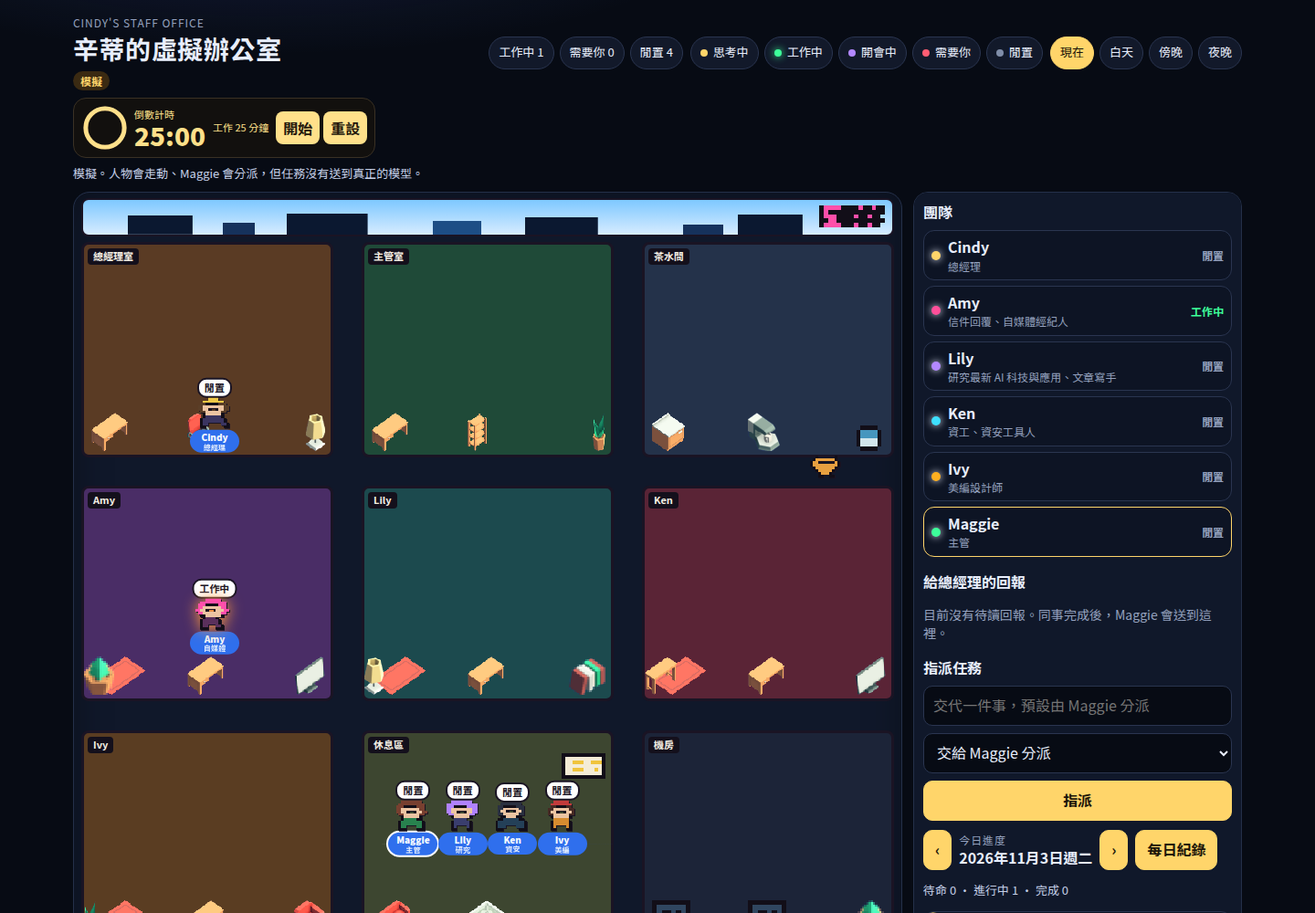
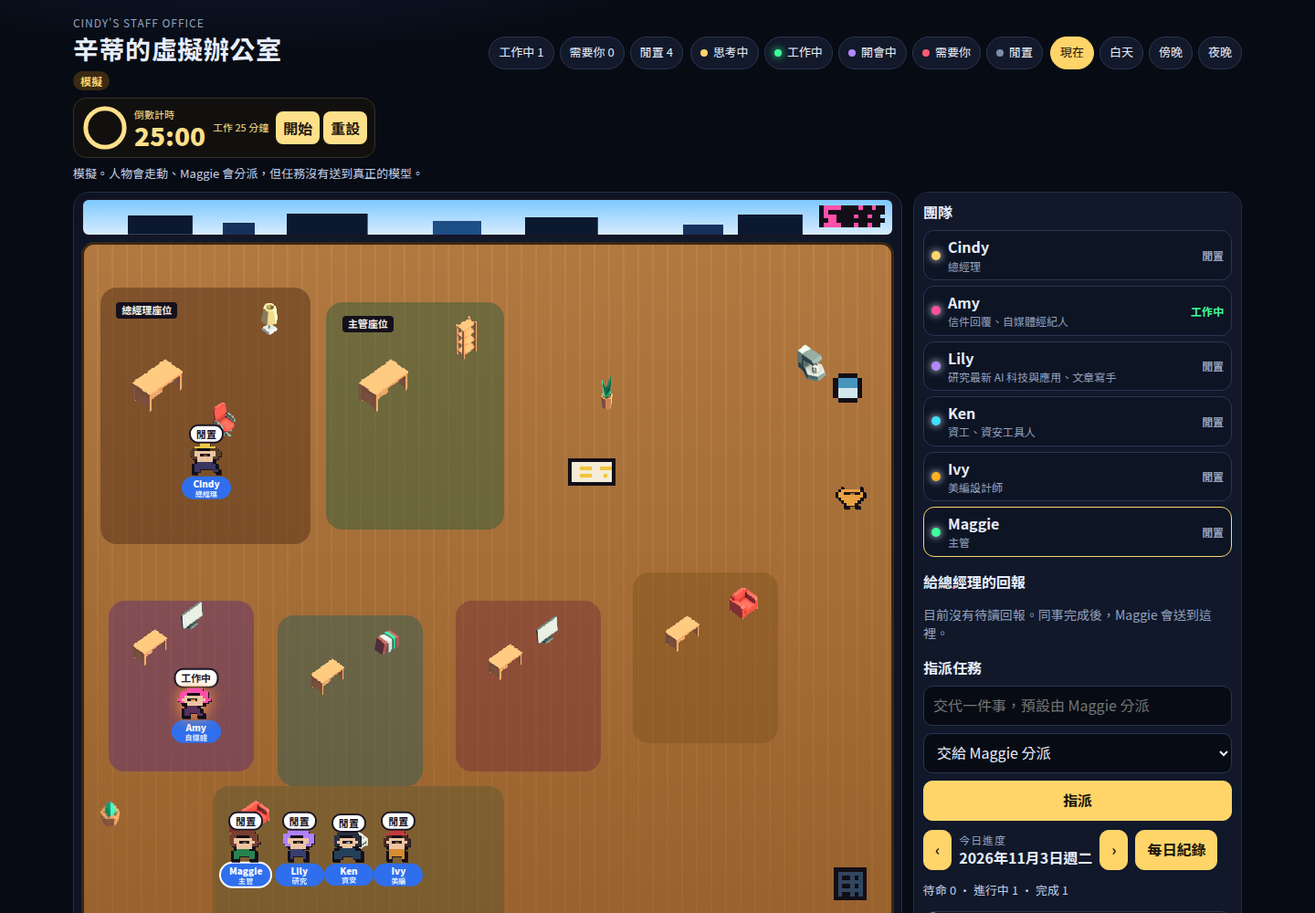
feat: open the office into one shared room
Desks share a single wood floor, zoned with rugs. Cindy and Maggie keep
corner seats without walls, and the labels say 座位 instead of 室.

diff --git a/app/static/office/assets/main-CJSS3roR.js b/app/static/office/assets/main-CJSS3roR.js
@@ -1,0 +1,1 @@
+import{r as d,j as t,c as Ee}from"./client-D6Ikx3I_.js";const Ce={amy:"收到，已記入今天的待辦，狀態是待命。信件和自媒體這類的事可以交給我。",lily:"收到，先記在今天。AI 新技術和文章，我會照這個題目來查、來寫。",ken:"了解，先掛在待命。我可以幫忙看資安風險和防護，但不會提供入侵或攻擊步驟。",ivy:"收到，美編的事先放在我桌上。你可以隨時把狀態改成進行中或完成。",maggie:"收到。我是主管，會先把事情派給合適的同事，完成後再向總經理回報。"},L=[{slug:"amy",display_name:"Amy",role:"信件回覆、自媒體經紀人",color:"#ff4f9a",wall:"#2a1422",accent:"#ff4f9a",placeholder:"回覆合作信"},{slug:"lily",display_name:"Lily",role:"研究最新 AI 科技與應用、文章寫手",color:"#b388ff",wall:"#1c1430",accent:"#b388ff",placeholder:"本週 AI 新聞"},{slug:"ken",display_name:"Ken",role:"資工、資安工具人",color:"#3ee0ff",wall:"#102430",accent:"#3ee0ff",placeholder:"檢查登入風險"},{slug:"ivy",display_name:"Ivy",role:"美編設計師",color:"#ffb020",wall:"#2a1c10",accent:"#ffb020",placeholder:"活動主視覺"},{slug:"maggie",display_name:"Maggie",role:"主管",color:"#3dff9a",wall:"#102418",accent:"#3dff9a",placeholder:"本週里程碑"}],ne={slug:"cindy",display_name:"Cindy",role:"總經理",color:"#ffd56a",wall:"#2a220f",accent:"#ffd56a",placeholder:""};function $(a){return a==="cindy"?ne:L.find(e=>e.slug===a)??L[0]}const pe="cindy-office-v1";function te(){return{tasks:[],messages:[],events:[]}}function q(a){return{...a,via_maggie:!!a.via_maggie,needs_you:!!a.needs_you,acked:!!a.acked}}function S(a){return`${a}_${Math.random().toString(16).slice(2,12)}`}function x(){return new Date().toISOString()}function _(){try{const a=localStorage.getItem(pe);if(!a)return te();const e=JSON.parse(a);return!e||!Array.isArray(e.tasks)||!Array.isArray(e.messages)?te():(e.events=Array.isArray(e.events)?e.events:[],e.tasks=e.tasks.map(n=>q(n)),e)}catch{return te()}}function W(a){a.tasks=a.tasks.slice(-1e3),a.messages=a.messages.slice(-400),a.events=a.events.slice(-400);try{localStorage.setItem(pe,JSON.stringify(a))}catch{throw new Error("無法寫入瀏覽器儲存。請檢查是否封鎖了網站資料。")}}function ge(a){return Ce[a]??"收到，已記入今日進度，狀態是待命。"}class Ae{id="browser";async listAgents(){return L}async listTasks(e){return _().tasks.filter(n=>!e||n.day===e).sort((n,i)=>n.created_at.localeCompare(i.created_at))}async listEvents(e){return _().events.filter(n=>!e||n.day===e).sort((n,i)=>n.created_at.localeCompare(i.created_at))}async addEvent(e){const n=_();n.events.push({event_id:S("evt"),day:e.day,text:e.text.trim(),kind:e.kind||"info",created_at:x()}),W(n)}async listMessages(e){return _().messages.filter(n=>!e||n.agent_slug===e).sort((n,i)=>n.created_at.localeCompare(i.created_at))}async createTask(e){const n=_(),i={task_id:S("task"),agent_slug:e.agent_slug,title:e.title.trim(),day:e.day,status:"idle",result:"",backend:"browser",via_maggie:!!e.via_maggie,needs_you:!1,acked:!1,created_at:x(),updated_at:x()};return n.tasks.push(i),n.messages.push({message_id:S("msg"),agent_slug:e.agent_slug,role:"user",content:i.title,day:e.day,task_id:i.task_id,backend:"user",created_at:x()},{message_id:S("msg"),agent_slug:e.agent_slug,role:"agent",content:ge(e.agent_slug),day:e.day,task_id:i.task_id,backend:"browser",created_at:x()}),W(n),i}async updateTask(e,n){const i=_(),r=i.tasks.find(o=>o.task_id===e);if(!r)throw new Error("找不到這項任務");return n.status&&(r.status=n.status,n.status==="done"&&n.needs_you===void 0?(r.needs_you=!0,r.acked=!1):n.status!=="done"&&n.needs_you===void 0&&(r.needs_you=!1)),n.needs_you!==void 0&&(r.needs_you=n.needs_you),n.acked!==void 0&&(r.acked=n.acked),r.updated_at=x(),W(i),r}async deleteTask(e){const n=_();n.tasks=n.tasks.filter(i=>i.task_id!==e),W(n)}async sendChat(e){const n=_(),i=e.content.trim();let r=null;if(e.create_task){const o=i.length>80?`${i.slice(0,80)}…`:i,y={task_id:S("task"),agent_slug:e.agent_slug,title:o,day:e.day,status:"idle",result:"",backend:"browser",via_maggie:!0,needs_you:!1,acked:!1,created_at:x(),updated_at:x()};n.tasks.push(y),r=y.task_id}n.messages.push({message_id:S("msg"),agent_slug:e.agent_slug,role:"user",content:i,day:e.day,task_id:r,backend:"user",created_at:x()},{message_id:S("msg"),agent_slug:e.agent_slug,role:"agent",content:ge(e.agent_slug),day:e.day,task_id:r,backend:"browser",created_at:x()}),W(n)}}function xe(){return"".replace(/\/$/,"")}async function j(a){let e=null;try{e=await a.json()}catch{e=null}if(!a.ok){const n=e?.detail;throw new Error(typeof n=="string"?n:"辦公室後端沒有回應")}return e?.data}class Me{id="server";url(e){return`${xe()}/api/v1/office/cindy${e}`}async listAgents(){const e=await j(await fetch(this.url("/agents"))),n=new Map(e.agents.map(i=>[i.slug,i]));return L.map(i=>({...i,...n.get(i.slug)}))}async listTasks(e){const n=e?`?day=${encodeURIComponent(e)}`:"";return(await j(await fetch(this.url(`/tasks${n}`)))).tasks.map(r=>q(r))}async listEvents(e){const n=e?`?day=${encodeURIComponent(e)}`:"";return(await j(await fetch(this.url(`/events${n}`)))).events}async addEvent(e){await j(await fetch(this.url("/events"),{method:"POST",headers:{"Content-Type":"application/json"},body:JSON.stringify(e)}))}async listMessages(e){const n=e?`?agent_slug=${encodeURIComponent(e)}`:"";return(await j(await fetch(this.url(`/messages${n}`)))).messages}async createTask(e){const n=await j(await fetch(this.url("/tasks"),{method:"POST",headers:{"Content-Type":"application/json"},body:JSON.stringify(e)}));return q(n.task)}async updateTask(e,n){const i=await j(await fetch(this.url(`/tasks/${encodeURIComponent(e)}`),{method:"PATCH",headers:{"Content-Type":"application/json"},body:JSON.stringify(n)}));return q(i.task)}async deleteTask(e){await j(await fetch(this.url(`/tasks/${encodeURIComponent(e)}`),{method:"DELETE"}))}async sendChat(e){await j(await fetch(this.url("/chat"),{method:"POST",headers:{"Content-Type":"application/json"},body:JSON.stringify(e)}))}}async function Oe(){const a=new AbortController,e=window.setTimeout(()=>a.abort(),1500);try{const n=await fetch(`${xe()}/api/v1/office/cindy/health`,{signal:a.signal});if(!n.ok)throw new Error("no server");const i=await n.json();if(i.data?.storage!=="server")throw new Error("no server");return{backend:new Me,health:{storage:"server",liveAgent:!!i.data.live_agent,detail:i.data.detail||""}}}catch{return{backend:new Ae,health:{storage:"browser",liveAgent:!1,detail:"任務存在這台瀏覽器，重新整理還在；沒有送到真正的 Agent。"}}}finally{window.clearTimeout(e)}}function Ie(){return new Intl.DateTimeFormat("en-CA",{timeZone:"Asia/Taipei",year:"numeric",month:"2-digit",day:"2-digit"}).format(new Date)}function me(a,e){const[n,i,r]=a.split("-").map(Number),o=new Date(Date.UTC(n,i-1,r));return o.setUTCDate(o.getUTCDate()+e),o.toISOString().slice(0,10)}function fe(a){const[e,n,i]=a.split("-").map(Number),r=new Date(Date.UTC(e,n-1,i));return new Intl.DateTimeFormat("zh-TW",{timeZone:"UTC",year:"numeric",month:"long",day:"numeric",weekday:"short"}).format(r)}function De(a,e){const n=new Map,i=r=>{let o=n.get(r);return o||(o={day:r,total:0,idle:0,doing:0,done:0},n.set(r,o)),o};for(const r of a){const o=i(r.day);o.total+=1,o[r.status]+=1}for(const r of e)i(r.day);return[...n.values()].sort((r,o)=>r.day<o.day?1:r.day>o.day?-1:0)}const Q={thinking:"思考中",working:"工作中",meeting:"開會中",needs:"需要你",idle:"閒置"},V=["amy","lily","ken","ivy","maggie"],Be=[["amy",["信","社群","貼文","合作","回覆","自媒體","mail"]],["ivy",["設計","視覺","美編","主視覺","海報"]],["ken",["資安","工程","程式","登入","風險","技術","安全"]],["lily",["ai","研究","文章","新聞","寫","科技"]],["maggie",["專案","里程碑","排程","進度","會議"]]];function ze(a,e){if(e!=="auto")return e;const n=a.toLowerCase();for(const[i,r]of Be)if(r.some(o=>n.includes(o)))return i;return"maggie"}function ke(a,e){const n=a.toLowerCase();if(n.includes("開會")||n.includes("同步")||n.includes("一起"))return"meet";for(const i of V)if(i!==e&&(n.includes(i)||n.includes($(i).display_name.toLowerCase())))return i;return null}function Re(a,e,n){return a.filter(i=>i.day===e&&i.agent_slug===n&&i.status!=="done")}function R(a,e,n){const i=e.some(o=>o.day===n&&o.needs_you&&!o.acked);if(a==="cindy")return i?"needs":"idle";if(a==="maggie"&&i)return"needs";const r=Re(e,n,a);return r.some(o=>ke(o.title,a))?"meeting":r.some(o=>o.status==="doing")?"working":r.some(o=>o.status==="idle")?"thinking":"idle"}function Le(a,e,n,i){if(i)return i;if(a==="cindy")return"cindy";const r=R(a,e,n);return a==="maggie"&&r==="needs"?"cindy":r==="meeting"?"meet":r==="working"||r==="thinking"?a==="maggie"?"maggieOffice":a:"lounge"}function Pe(){const a=new Intl.DateTimeFormat("en-GB",{timeZone:"Asia/Taipei",hour:"2-digit",hourCycle:"h23"}).format(new Date);return Number(a)}function Ue(a){if(a!=="now")return a;const e=Pe();return e>=6&&e<16?"day":e>=16&&e<19?"dusk":"night"}function We(a){return new Intl.DateTimeFormat("zh-TW",{timeZone:"Asia/Taipei",hour:"2-digit",minute:"2-digit",hourCycle:"h23"}).format(new Date(a))}const Z={cindy:{x:16,y:38},maggieOffice:{x:38,y:36},kitchen:{x:86,y:36},whiteboard:{x:62,y:42},amy:{x:14,y:68},lily:{x:36,y:72},ken:{x:58,y:70},ivy:{x:80,y:66},lounge:{x:30,y:88},meet:{x:48,y:84},servers:{x:86,y:86}},Fe=["cindy","maggie","amy","lily","ken","ivy"],se=["kitchen","amy","lounge","servers","ivy","lily"],Je={cindy:"總經理",maggie:"主管",amy:"自媒體",lily:"研究",ken:"資安",ivy:"美編"};function T(a){return`./${a}`}function m({file:a,className:e}){return t.jsx("img",{className:e?`prop ${e}`:"prop",alt:"",src:T(`furniture/${a}`)})}function He({tasks:a,day:e,walks:n,bubbles:i,selected:r,onSelect:o,tod:y}){const E=Ue(y),[P,C]=d.useState(0),[h,g]=d.useState(!1);d.useEffect(()=>{const c=window.setInterval(()=>{C(f=>{const w=(f+1)%se.length,v=se[w];return g(v==="amy"||v==="lily"||v==="ivy"),w})},2800);return()=>window.clearInterval(c)},[]);const N=Fe.map(c=>({slug:c,spot:Le(c,a,e,n[c])})),A=new Map;for(const c of N){const f=A.get(c.spot)??[];f.push(c.slug),A.set(c.spot,f)}const M=Z[se[P]]??Z.lounge;return t.jsxs("div",{className:`stage tod-${E}`,"data-testid":"office-stage",children:[t.jsxs("div",{className:"city","aria-hidden":"true",children:[t.jsx("div",{className:"skyline"}),t.jsx("img",{className:"neon",alt:"",src:T("sprites/neon.png")})]}),t.jsxs("div",{className:"floor","aria-hidden":"true",children:[t.jsx("i",{className:"zone zone-gm"}),t.jsx("i",{className:"zone zone-lead"}),t.jsx("i",{className:"zone zone-amy"}),t.jsx("i",{className:"zone zone-lily"}),t.jsx("i",{className:"zone zone-ken"}),t.jsx("i",{className:"zone zone-ivy"}),t.jsx("i",{className:"zone zone-lounge"}),t.jsx("span",{className:"plate plate-gm",children:"總經理座位"}),t.jsx("span",{className:"plate plate-lead",children:"主管座位"}),t.jsx(m,{file:"desk.png",className:"big at-gm"}),t.jsx(m,{file:"chair.png",className:"at-gm-chair"}),t.jsx(m,{file:"lamp.png",className:"at-gm-lamp"}),t.jsx(m,{file:"desk.png",className:"big at-lead"}),t.jsx(m,{file:"bookcase.png",className:"at-lead-books"}),t.jsx(m,{file:"desk.png",className:"at-amy"}),t.jsx(m,{file:"monitor.png",className:"at-amy-screen"}),t.jsx(m,{file:"desk.png",className:"at-lily"}),t.jsx(m,{file:"books.png",className:"at-lily-books"}),t.jsx(m,{file:"desk.png",className:"at-ken"}),t.jsx(m,{file:"monitor.png",className:"at-ken-screen"}),t.jsx(m,{file:"desk.png",className:"at-ivy"}),t.jsx(m,{file:"lounge-chair.png",className:"at-ivy-chair"}),t.jsx(m,{file:"sofa.png",className:"at-sofa"}),t.jsx(m,{file:"coffee-table.png",className:"at-table"}),t.jsx(m,{file:"plant.png",className:"at-plant-a"}),t.jsx(m,{file:"plant-small.png",className:"at-plant-b"}),t.jsx(m,{file:"coffee.png",className:"at-coffee"}),t.jsx("img",{className:"prop at-cooler",alt:"",src:T("sprites/cooler.png")}),t.jsx("img",{className:"prop board at-board",alt:"",src:T("sprites/board.png")}),t.jsx("img",{className:"prop at-rack",alt:"",src:T("sprites/rack.png")})]}),N.map(c=>{const f=Z[c.spot]??Z.lounge,w=A.get(c.spot)??[c.slug],v=w.indexOf(c.slug),O=c.slug==="cindy"?ne:$(c.slug),J=R(c.slug,a,e),H=f.x+(v-(w.length-1)/2)*6,K=f.y,I=i[c.slug]||Q[J];return t.jsxs("button",{type:"button",className:`actor${r===c.slug?" is-selected":""}${J==="working"?" is-working":""}${n[c.slug]?" is-walking":""}${i[c.slug]==="+1"?" is-plus":""}`,style:{left:`${H}%`,top:`${K}%`,zIndex:3},onClick:()=>o(c.slug),children:[t.jsx("span",{className:`say${i[c.slug]?"":" is-status"}`,children:I}),t.jsx("img",{className:"pixel",alt:"",src:T(`sprites/${c.slug}.png`)}),t.jsxs("span",{className:"nametag",children:[O.display_name,t.jsx("small",{children:Je[c.slug]??O.role})]})]},c.slug)}),t.jsx("img",{className:`cat${h?" is-hop":""}`,alt:"",src:T("sprites/cat.png"),style:{left:`${M.x+8}%`,top:`${M.y+4}%`}})]})}const F=1500*1e3,be="cindy-pomodoro-v1";function ae(){return{remainingMs:F,running:!1,endsAt:null,finished:!1}}function Ke(){try{const a=localStorage.getItem(be);if(!a)return ae();const e=JSON.parse(a);if(e.running&&e.endsAt){const i=Math.max(0,e.endsAt-Date.now());return i<=0?{remainingMs:0,running:!1,endsAt:null,finished:!0}:{remainingMs:i,running:!0,endsAt:e.endsAt,finished:!1}}const n=typeof e.remainingMs=="number"?e.remainingMs:F;return{remainingMs:n,running:!1,endsAt:null,finished:!!e.finished&&n<=0}}catch{return ae()}}function Ge(a){if(a<=0)return"00:00";const e=Math.ceil(a/1e3),n=Math.floor(e/60),i=e%60;return`${String(n).padStart(2,"0")}:${String(i).padStart(2,"0")}`}function Ye(){const[a,e]=d.useState(Ke),[n,i]=d.useState(()=>Date.now());d.useEffect(()=>{try{localStorage.setItem(be,JSON.stringify(a))}catch{}},[a]),d.useEffect(()=>{if(!a.running)return;const h=window.setInterval(()=>i(Date.now()),200);return()=>window.clearInterval(h)},[a.running]);const r=a.running&&a.endsAt?Math.max(0,a.endsAt-n):a.remainingMs;d.useEffect(()=>{a.running&&a.endsAt&&r<=0&&e({remainingMs:0,running:!1,endsAt:null,finished:!0})},[r,a.running,a.endsAt]);const o=Math.min(1,Math.max(0,r/F)),y=26,E=2*Math.PI*y,P=a.running?"暫停":r>0&&r<F?"繼續":"開始",C=h=>{e({remainingMs:h,running:!0,endsAt:Date.now()+h,finished:!1})};return t.jsxs("section",{className:`timer${a.finished?" is-done":""}`,"aria-label":"番茄鐘",children:[t.jsxs("div",{className:"timer-top",children:[t.jsxs("svg",{className:"timer-ring",viewBox:"0 0 64 64","aria-hidden":"true",children:[t.jsx("circle",{cx:"32",cy:"32",r:y,fill:"none",stroke:"#5a4636",strokeWidth:"6"}),t.jsx("circle",{cx:"32",cy:"32",r:y,fill:"none",stroke:"#ffe08a",strokeWidth:"6",strokeLinecap:"round",strokeDasharray:E,strokeDashoffset:E*(1-o),transform:"rotate(-90 32 32)"})]}),t.jsxs("div",{children:[t.jsx("p",{className:"timer-label",children:"倒數計時"}),t.jsx("p",{className:"timer-readout","data-testid":"pomo-time",children:Ge(r)})]})]}),t.jsx("p",{className:"timer-note",role:"status",children:a.finished?"時間到，休息一下吧":"工作 25 分鐘"}),t.jsxs("div",{className:"timer-actions",children:[t.jsx("button",{type:"button","data-testid":"pomo-toggle",onClick:()=>{if(a.running){const h=a.endsAt?Math.max(0,a.endsAt-Date.now()):r;e({remainingMs:h,running:!1,endsAt:null,finished:!1});return}C(r>0?r:F)},children:P}),t.jsx("button",{type:"button","data-testid":"pomo-reset",onClick:()=>e(ae()),children:"重設"})]})]})}const ye={idle:"待命",doing:"進行中",done:"完成"},Ze=[ne,...L];function qe(){const a=localStorage.getItem("cindy-tod");return a==="now"||a==="day"||a==="dusk"||a==="night"?a:"now"}function Qe(){const a=Ie(),[e,n]=d.useState(null),[i,r]=d.useState(null),[o,y]=d.useState([]),[E,P]=d.useState([]),[C,h]=d.useState([]),[g,N]=d.useState(a),[A,M]=d.useState("maggie"),[c,f]=d.useState(""),[w,v]=d.useState(""),[O,J]=d.useState("auto"),[H,K]=d.useState(!1),[I,je]=d.useState(qe),[U,ie]=d.useState("team"),[re,we]=d.useState(!1),[ve,oe]=d.useState({}),[_e,le]=d.useState({});d.useEffect(()=>{localStorage.setItem("cindy-tod",I)},[I]),d.useEffect(()=>{let s=!1;return Oe().then(l=>{s||(n(l.backend),r(l.health))}),()=>{s=!0}},[]);const D=async s=>{const[l,u,p]=await Promise.all([s.listTasks(),s.listEvents(),s.listMessages()]);y(l),P(u),h(p)};d.useEffect(()=>{if(!e)return;let s=!1;return D(e).catch(l=>{s||f(l.message||"讀取失敗")}),()=>{s=!0}},[e]);const B=o.filter(s=>s.day===g),G=B.filter(s=>s.needs_you&&!s.acked),ce=E.filter(s=>s.day===g).slice().reverse(),de=d.useMemo(()=>De(o,C),[o,C]),X={working:V.filter(s=>R(s,o,g)==="working").length,needs:V.filter(s=>R(s,o,g)==="needs").length,idle:V.filter(s=>R(s,o,g)==="idle").length},z=(s,l=1700)=>{const u={},p={};s.forEach(k=>{u[k.slug]=k.spot,p[k.slug]=k.bubble}),oe(u),le(p),window.setTimeout(()=>{oe({}),le({})},l)},Ne=async s=>{s.preventDefault();const l=w.trim();if(!l||!e)return;K(!0),f("");const u=ze(l,O),p=O==="auto",k=$(u).display_name,b=ke(l,u);try{await e.createTask({agent_slug:u,title:l,day:g,via_maggie:p});const Y=u==="maggie"?"maggieOffice":u;p&&u!=="maggie"?await e.addEvent({day:g,kind:"dispatch",text:`Maggie 把「${l}」交給 ${k}`}):await e.addEvent({day:g,kind:"direct",text:`總經理直接把「${l}」交給 ${k}`}),z([{slug:u,spot:"whiteboard",bubble:"領任務"},...p&&u!=="maggie"?[{slug:"maggie",spot:"whiteboard",bubble:"交給你"}]:[]]),window.setTimeout(()=>{const ue=[{slug:u,spot:b?"meet":Y,bubble:b?"一起看":"開工"}];b&&b!=="meet"&&ue.push({slug:b,spot:"meet",bubble:"過來一下"}),z(ue,2e3)},1300),b&&b!=="meet"?await e.addEvent({day:g,kind:"collab",text:`${k} 走到 ${$(b).display_name} 旁邊討論「${l}」`}):b==="meet"&&await e.addEvent({day:g,kind:"collab",text:`${k} 到會議室討論「${l}」`}),v(""),M(u),ie("tasks"),await D(e)}catch(Y){f(Y instanceof Error?Y.message:"指派失敗")}finally{K(!1)}},Se=async(s,l)=>{if(e){f("");try{if(await e.updateTask(s.task_id,{status:l}),l==="done"){const u=$(s.agent_slug).display_name;await e.addEvent({day:s.day,kind:"report",text:`${u} 走到主管座位向 Maggie 回報「${s.title}」`});const p=s.agent_slug==="maggie"?"maggieOffice":s.agent_slug;z([{slug:s.agent_slug,spot:p,bubble:"+1"}],700),window.setTimeout(()=>{z([{slug:s.agent_slug,spot:"maggieOffice",bubble:"回報主管"}])},700),window.setTimeout(()=>{e&&(e.addEvent({day:s.day,kind:"gm",text:`Maggie 走到總經理座位回報「${s.title}」`}).then(()=>D(e)).catch(()=>{}),z([{slug:"maggie",spot:"cindy",bubble:"報告總經理"},{slug:"cindy",spot:"cindy",bubble:"我看一下"}],2200))},1500)}await D(e)}catch(u){f(u instanceof Error?u.message:"無法更新狀態")}}},Te=async s=>{if(e){f("");try{await e.updateTask(s.task_id,{acked:!0,needs_you:!1}),await e.addEvent({day:s.day,kind:"ack",text:`總經理已讀「${s.title}」的回報`}),z([{slug:"maggie",spot:"maggieOffice",bubble:"好，我記下了"}]),await D(e)}catch(l){f(l instanceof Error?l.message:"無法更新回報")}}},$e=async s=>{if(e)try{await e.deleteTask(s),await D(e)}catch(l){f(l instanceof Error?l.message:"無法刪除")}},ee=!!i?.liveAgent;return t.jsxs("div",{className:"page",children:[t.jsxs("header",{className:"topbar",children:[t.jsxs("div",{className:"brand",children:[t.jsx("p",{className:"kicker",children:"Cindy's Staff Office"}),t.jsx("h1",{children:"辛蒂的虛擬辦公室"}),t.jsx("span",{className:`sim-badge${ee?" is-live":""}`,"data-testid":"sim-badge",children:ee?"已連接模型":"模擬"})]}),t.jsxs("div",{className:"counters","data-testid":"counters",children:[t.jsxs("span",{children:["工作中 ",X.working]}),t.jsxs("span",{children:["需要你 ",X.needs]}),t.jsxs("span",{children:["閒置 ",X.idle]})]}),t.jsx("div",{className:"legend","aria-label":"狀態圖例",children:Object.keys(Q).map(s=>t.jsx("span",{className:`legend-item ${s}`,children:Q[s]},s))}),t.jsx("div",{className:"tod",role:"group","aria-label":"時間",children:[["now","現在"],["day","白天"],["dusk","傍晚"],["night","夜晚"]].map(([s,l])=>t.jsx("button",{type:"button",className:I===s?"is-on":"","data-testid":`tod-${s}`,onClick:()=>je(s),children:l},s))}),t.jsx("div",{className:"top-timer",children:t.jsx(Ye,{})})]}),t.jsx("p",{className:"honesty","data-testid":"storage-mode",children:ee?"已連接模型。新任務會送給同事的模型；人物走動仍是辦公室裡的示意。":"模擬。人物會走動、Maggie 會分派，但任務沒有送到真正的模型。"}),c&&t.jsx("p",{className:"error",role:"alert",children:c}),t.jsxs("div",{className:"layout",children:[t.jsx(He,{tasks:o,day:g,walks:ve,bubbles:_e,selected:A,onSelect:M,tod:I}),t.jsxs("aside",{className:"sidebar",children:[t.jsx("div",{className:"sheet-tabs",children:[["team","團隊"],["inbox","回報"],["tasks","任務"],["feed","動態"]].map(([s,l])=>t.jsxs("button",{type:"button",className:U===s?"is-on":"",onClick:()=>ie(s),children:[l,s==="inbox"&&G.length>0?` ${G.length}`:""]},s))}),t.jsxs("section",{className:`side-section${U==="team"?" is-on":""}`,children:[t.jsx("h2",{children:"團隊"}),t.jsx("ul",{className:"roster",children:Ze.map(s=>{const l=R(s.slug,o,g);return t.jsx("li",{children:t.jsxs("button",{type:"button",className:A===s.slug?"is-on":"",onClick:()=>M(s.slug),children:[t.jsx("i",{style:{background:s.accent}}),t.jsxs("span",{children:[t.jsx("strong",{children:s.display_name}),t.jsx("em",{children:s.role})]}),t.jsx("b",{className:l,children:Q[l]})]})},s.slug)})})]}),t.jsxs("section",{className:`side-section${U==="inbox"?" is-on":""}`,"data-testid":"inbox",children:[t.jsx("h2",{children:"給總經理的回報"}),G.length===0&&t.jsx("p",{className:"empty",children:"目前沒有待讀回報。同事完成後，Maggie 會送到這裡。"}),G.map(s=>t.jsxs("article",{className:"report",children:[t.jsxs("p",{children:["Maggie 彙整：",$(s.agent_slug).display_name," 完成了「",s.title,"」"]}),t.jsx("button",{type:"button",onClick:()=>Te(s),children:"知道了"})]},s.task_id))]}),t.jsxs("section",{className:`side-section${U==="tasks"?" is-on":""}`,children:[t.jsx("h2",{children:"指派任務"}),t.jsxs("form",{className:"assign",onSubmit:Ne,children:[t.jsx("input",{"data-testid":"task-input",value:w,maxLength:500,placeholder:"交代一件事，預設由 Maggie 分派","aria-label":"任務內容",onChange:s=>v(s.target.value)}),t.jsxs("select",{"data-testid":"task-target",value:O,"aria-label":"交給誰",onChange:s=>J(s.target.value),children:[t.jsx("option",{value:"auto",children:"交給 Maggie 分派"}),L.map(s=>t.jsxs("option",{value:s.slug,children:["直接交給 ",s.display_name]},s.slug))]}),t.jsx("button",{type:"submit","data-testid":"task-submit",disabled:!e||H,children:H?"指派中":"指派"})]}),t.jsxs("div",{className:"datebar",children:[t.jsx("button",{type:"button","data-testid":"day-prev",onClick:()=>N(me(g,-1)),"aria-label":"前一天",children:"‹"}),t.jsxs("div",{children:[t.jsx("p",{className:"kicker",children:g===a?"今日進度":"這一天的進度"}),t.jsx("h2",{"data-testid":"day-label",children:fe(g)})]}),t.jsx("button",{type:"button","data-testid":"day-next",onClick:()=>N(me(g,1)),"aria-label":"後一天",children:"›"}),g!==a&&t.jsx("button",{type:"button","data-testid":"day-today",onClick:()=>N(a),children:"回到今天"}),t.jsx("button",{type:"button","data-testid":"history-toggle",onClick:()=>we(s=>!s),children:re?"收起紀錄":"每日紀錄"})]}),t.jsxs("p",{className:"counts-line",children:["待命 ",B.filter(s=>s.status==="idle").length," · 進行中 ",B.filter(s=>s.status==="doing").length," · 完成"," ",B.filter(s=>s.status==="done").length]}),re&&t.jsxs("div",{className:"history","data-testid":"history",children:[de.length===0&&t.jsx("p",{className:"empty",children:"還沒有其他日期。"}),de.map(s=>t.jsxs("button",{type:"button",onClick:()=>N(s.day),children:[fe(s.day)," · ",s.total," 項 · 完成 ",s.done]},s.day))]}),t.jsxs("div",{className:"task-list",children:[B.length===0&&t.jsx("p",{className:"empty",children:"這天還沒有任務。"}),B.map(s=>t.jsxs("div",{className:`task is-${s.status}`,"data-testid":`task-${s.task_id}`,children:[t.jsxs("p",{className:"task-title",children:[$(s.agent_slug).display_name," · ",s.title,s.via_maggie?" · Maggie 分派":""]}),t.jsxs("div",{className:"task-actions",children:[t.jsx("select",{"aria-label":`${s.title} 的狀態`,"data-testid":`task-status-${s.task_id}`,value:s.status,onChange:l=>Se(s,l.target.value),children:Object.keys(ye).map(l=>t.jsx("option",{value:l,children:ye[l]},l))}),t.jsx("button",{type:"button",onClick:()=>$e(s.task_id),children:"刪除"})]})]},s.task_id))]})]}),t.jsxs("section",{className:`side-section${U==="feed"?" is-on":""}`,"data-testid":"activity",children:[t.jsx("h2",{children:"動態"}),ce.length===0&&t.jsx("p",{className:"empty",children:"這天還沒有動靜。指派一件事就會出現。"}),t.jsx("ol",{className:"feed",children:ce.map(s=>t.jsxs("li",{children:[t.jsx("time",{children:We(s.created_at)}),s.text]},s.event_id))})]})]})]})]})}const he=document.getElementById("cindy-root");he&&Ee.createRoot(he).render(t.jsx(d.StrictMode,{children:t.jsx(Qe,{})}));

diff --git a/app/static/office/assets/main-DugkR9wd.css b/app/static/office/assets/main-DugkR9wd.css
@@ -1,0 +1,1 @@
+:root{color:#e8eefc;background:#070b14;font-family:Noto Sans TC,PingFang TC,Microsoft JhengHei,WenQuanYi Micro Hei,sans-serif}*{box-sizing:border-box}html,body,#cindy-root{margin:0;min-height:100%}body{font-size:16px;line-height:1.45;background:#070b14}button,input,select{font:inherit;color:inherit}button{cursor:pointer}button:focus-visible,input:focus-visible,select:focus-visible{outline:3px solid #ffd56a;outline-offset:2px}.page{min-height:100vh;padding:10px 10px calc(52vh + env(safe-area-inset-bottom));background:radial-gradient(900px 280px at 20% -10%,rgba(80,120,255,.18),transparent 60%),#070b14}.topbar{display:flex;flex-wrap:wrap;gap:8px;align-items:center;max-width:1280px;margin:0 auto}.brand{min-width:0;flex:1 1 180px}.brand h1{margin:0;font-size:clamp(18px,4.5vw,28px);letter-spacing:.02em}.kicker{margin:0;color:#93a0bd;font-size:12px;letter-spacing:.08em;text-transform:uppercase}.sim-badge{display:inline-block;margin-top:4px;padding:2px 8px;border-radius:999px;background:#3a2a12;color:#ffd56a;font-size:12px;font-weight:700}.sim-badge.is-live{background:#123226;color:#3dff9a}.counters,.legend,.tod{display:flex;flex-wrap:wrap;gap:6px}.counters span,.tod button,.legend-item{border:1px solid #2a3550;background:#12192a;border-radius:999px;padding:6px 10px;font-size:13px;min-height:36px;display:inline-flex;align-items:center}.tod button.is-on{background:#ffd56a;color:#1a1408;border-color:#ffd56a}.legend-item:before{content:"";width:8px;height:8px;border-radius:50%;margin-right:6px;background:#8ea0c4}.legend-item.working:before{background:#3dff9a;box-shadow:0 0 8px #3dff9a}.legend-item.thinking:before{background:#ffd56a}.legend-item.meeting:before{background:#b388ff}.legend-item.needs:before{background:#ff5d73}.legend-item.idle:before{background:#7f8da8}.honesty,.error{max-width:1280px;margin:8px auto 0;font-size:13px;color:#c5d0e8}.error{color:#ffb4c0}.layout{max-width:1280px;margin:10px auto 0;display:block}.stage{position:relative;z-index:1;height:42vh;min-height:280px;border:1px solid #243049;border-radius:18px;overflow:hidden;background:#10182a;box-shadow:inset 0 0 40px #00000059}.city{position:absolute;left:8px;right:8px;top:6px;height:42px;border-radius:8px;overflow:hidden;background:linear-gradient(#071226,#16325c);border:2px solid #1a1424}.tod-day .city{background:linear-gradient(#7ec8ff,#d7ecff)}.tod-dusk .city{background:linear-gradient(#ff8a4a,#2a1a44)}.tod-night .city{background:linear-gradient(#071226,#14284d)}.skyline{position:absolute;inset:auto 0 0;height:70%;background:linear-gradient(#0b1830,#0b1830) 6% 100% / 8% 80% no-repeat,linear-gradient(#16325c,#16325c) 18% 100% / 4% 50% no-repeat,linear-gradient(#0b1830,#0b1830) 28% 100% / 10% 90% no-repeat,linear-gradient(#1d4e86,#1d4e86) 46% 100% / 6% 60% no-repeat,linear-gradient(#0b1830,#0b1830) 60% 100% / 9% 75% no-repeat,linear-gradient(#16325c,#16325c) 78% 100% / 5% 45% no-repeat,linear-gradient(#0b1830,#0b1830) 88% 100% / 8% 85% no-repeat}.neon{position:absolute;right:8px;top:6px;width:72px;height:auto;image-rendering:pixelated}.floor{position:absolute;inset:54px 8px 8px;border-radius:14px;border:3px solid #3a2616;background:repeating-linear-gradient(90deg,#5a30142e 0 14px,#0000000d 14px 16px),linear-gradient(#c4894a,#a56b32);overflow:hidden}.zone{position:absolute;border-radius:18px;pointer-events:none}.zone-gm{left:2%;top:6%;width:26%;height:36%;background:#5a341c8c}.zone-lead{left:30%;top:8%;width:22%;height:32%;background:#245a3e73}.zone-amy{left:3%;top:50%;width:18%;height:24%;background:#5a287873}.zone-lily{left:24%;top:52%;width:18%;height:24%;background:#145a6066}.zone-ken{left:46%;top:50%;width:18%;height:24%;background:#6e243a66}.zone-ivy{left:68%;top:46%;width:18%;height:24%;background:#784e1c66}.zone-lounge{left:16%;top:76%;width:36%;height:20%;background:#46523059}.plate{position:absolute;z-index:2;background:#14101c;color:#f4efe4;font-size:11px;font-weight:700;padding:1px 6px;border-radius:4px}.plate-gm{left:4%;top:8%}.plate-lead{left:32%;top:10%}.prop{position:absolute;height:40px;width:auto;image-rendering:pixelated;image-rendering:crisp-edges;pointer-events:none}.prop.big{height:58px}.prop.board{height:30px}.at-gm{left:6%;top:16%}.at-gm-chair{left:16%;top:22%}.at-gm-lamp{left:22%;top:8%;height:36px}.at-lead{left:34%;top:16%}.at-lead-books{left:46%;top:10%;height:48px}.at-amy{left:6%;top:54%}.at-amy-screen{left:12%;top:50%;height:32px}.at-lily{left:28%;top:58%}.at-lily-books{left:36%;top:54%;height:28px}.at-ken{left:50%;top:56%}.at-ken-screen{left:56%;top:52%;height:32px}.at-ivy{left:72%;top:52%}.at-ivy-chair{left:80%;top:48%;height:36px}.at-sofa{left:18%;top:78%;height:44px}.at-table{left:32%;top:82%;height:28px}.at-plant-a{left:64%;top:18%}.at-plant-b{left:2%;top:78%;height:28px}.at-coffee{right:8%;top:14%;left:auto}.at-cooler{right:3%;top:18%;left:auto;height:32px}.at-board{left:60%;top:30%}.at-rack{inset:auto 3% 8% auto;height:36px}.actor{position:absolute;width:54px;transform:translate(-50%,-78%);background:transparent;border:0;padding:0;transition:left 1.15s ease,top 1.15s ease;z-index:3}.pixel{width:48px;height:auto;display:block;margin:0 auto;image-rendering:pixelated;image-rendering:crisp-edges;filter:drop-shadow(1px 1px 0 #1a1424)}.actor.is-working .pixel{filter:drop-shadow(1px 1px 0 #1a1424) drop-shadow(0 0 8px #ff9a3c)}.actor.is-walking .pixel{animation:bob .28s ease-in-out infinite}.actor.is-plus .say{animation:pop .7s ease}.nametag{display:block;margin:2px auto 0;max-width:86px;border-radius:999px;background:#2f6fed;color:#f7fbff;font-size:10px;font-weight:800;line-height:1.15;padding:2px 6px;text-align:center;white-space:normal}.nametag small{display:block;font-weight:600;font-size:8px;opacity:.9}.actor.is-selected .nametag{box-shadow:0 0 0 2px #fff}.say{position:absolute;left:50%;bottom:100%;transform:translate(-50%);background:#fff;color:#1a1424;border-radius:10px;border:2px solid #1a1424;padding:1px 6px;font-size:11px;font-weight:700;white-space:nowrap}.say.is-status{font-weight:600}.cat{position:absolute;width:36px;height:auto;image-rendering:pixelated;transform:translate(-50%,-70%);transition:left 2.4s linear,top 2.4s linear;z-index:4;pointer-events:none;filter:drop-shadow(1px 1px 0 #1a1424)}.cat.is-hop{animation:hop .6s ease}.sidebar{margin-top:10px;background:#10182a;border:1px solid #243049;border-radius:16px;padding:10px}.sheet-tabs{display:flex;gap:6px;margin-bottom:8px}.sheet-tabs button{flex:1;min-height:44px;border-radius:10px;border:1px solid #2a3550;background:#0d1424}.sheet-tabs button.is-on{background:#ffd56a;color:#1a1408;border-color:#ffd56a}.side-section{display:none}.side-section.is-on{display:block}.sidebar h2{margin:0 0 8px;font-size:16px}.empty{color:#93a0bd;font-size:14px}.roster{list-style:none;margin:0;padding:0;display:flex;flex-direction:column;gap:6px}.roster button{width:100%;display:flex;gap:8px;align-items:center;text-align:left;min-height:52px;border-radius:12px;border:1px solid #2a3550;background:#0d1424;padding:6px 8px}.roster button.is-on{border-color:#ffd56a}.roster i{width:10px;height:10px;border-radius:50%;flex:none;box-shadow:0 0 8px currentColor}.roster span{flex:1;min-width:0;display:flex;flex-direction:column}.roster em{color:#93a0bd;font-style:normal;font-size:12px}.roster b{font-size:12px;font-weight:700}.roster b.working{color:#3dff9a}.roster b.thinking{color:#ffd56a}.roster b.meeting{color:#b388ff}.roster b.needs{color:#ff5d73}.roster b.idle{color:#93a0bd}.report,.task{background:#0d1424;border:1px solid #2a3550;border-radius:12px;padding:8px;margin-bottom:8px}.report p,.task-title{margin:0 0 8px;overflow-wrap:anywhere}.report button,.assign button,.task-actions button,.datebar button,.history button{min-height:44px;border-radius:10px;border:1px solid #ffd56a;background:#ffd56a;color:#1a1408;font-weight:700;padding:0 12px}.assign{display:flex;flex-direction:column;gap:8px;margin-bottom:10px}.assign input,.assign select,.task-actions select{width:100%;min-height:44px;border-radius:10px;border:1px solid #2a3550;background:#070b14;padding:0 10px;font-size:16px}.datebar{display:flex;flex-wrap:wrap;gap:8px;align-items:center}.datebar h2{margin:0;font-size:16px}.counts-line{color:#c5d0e8;font-size:13px}.history{display:flex;flex-direction:column;gap:6px;margin-bottom:8px}.history button{text-align:left;background:#0d1424;color:#e8eefc;border-color:#2a3550}.task-actions{display:flex;gap:8px}.task-actions select{flex:1}.task.is-doing{box-shadow:inset 3px 0 #ffd56a}.task.is-done{box-shadow:inset 3px 0 #3dff9a}.task.is-idle{box-shadow:inset 3px 0 #7f8da8}.feed{list-style:none;margin:0;padding:0;display:flex;flex-direction:column;gap:8px}.feed li{background:#0d1424;border-radius:10px;padding:8px;font-size:14px}.feed time{display:block;color:#93a0bd;font-size:12px}.timer{display:flex;align-items:center;gap:8px;background:#12100e;color:#ffe08a;border-radius:14px;padding:6px 8px;border:1px solid #3a3124}.timer-top{display:flex;align-items:center;gap:6px}.timer-ring{width:36px;height:36px}.timer-label,.timer-note{margin:0;font-size:11px}.timer-readout{margin:0;font-size:20px;font-weight:800;font-variant-numeric:tabular-nums;line-height:1}.timer-actions{display:flex;gap:4px}.timer-actions button{min-height:36px;border:0;border-radius:8px;background:#ffe08a;color:#24180c;font-weight:700;padding:0 8px}.timer.is-done{box-shadow:0 0 0 2px #ffe08a}@keyframes bob{50%{transform:translateY(-3px)}}@keyframes pop{0%{transform:translate(-50%) scale(.6)}40%{transform:translate(-50%) scale(1.25)}to{transform:translate(-50%) scale(1)}}@keyframes hop{40%{transform:translate(-50%,-120%)}to{transform:translate(-50%,-70%)}}@media(min-width:980px){.page{padding:16px 16px 24px}.layout{display:grid;grid-template-columns:minmax(0,1fr) 360px;gap:12px;align-items:start}.stage{height:calc(100vh - 150px);min-height:520px}.sidebar{margin:0;max-height:calc(100vh - 150px);overflow:auto}.sheet-tabs{display:none}.side-section{display:block;margin-bottom:16px}.top-timer .timer-readout{font-size:28px}.top-timer .timer-ring{width:52px;height:52px}}@media(max-width:979px){.legend,.timer-label,.timer-note{display:none}.honesty{font-size:12px}.stage{height:320px;min-height:0}.prop{height:26px}.pixel{width:34px}.nametag small{display:block}.sidebar{position:fixed;left:0;right:0;bottom:0;margin:0;height:42vh;overflow:auto;border-radius:16px 16px 0 0;z-index:5;padding-bottom:calc(10px + env(safe-area-inset-bottom))}.say{max-width:96px}}@media(prefers-reduced-motion:reduce){.actor,.actor.is-working .face,.actor.is-walking .face{transition:none;animation:none}}

diff --git a/frontend/src/cindy/OfficeScene.tsx b/frontend/src/cindy/OfficeScene.tsx
@@ -5,17 +5,17 @@ import type { Presence } from "./sim";
 import type { OfficeTask } from "./types";
 
 const SPOTS: Record<string, { x: number; y: number }> = {
-  cindy: { x: 17, y: 32 },
-  maggieOffice: { x: 50, y: 32 },
-  kitchen: { x: 83, y: 32 },
-  whiteboard: { x: 50, y: 46 },
-  amy: { x: 17, y: 58 },
-  lily: { x: 50, y: 58 },
-  ken: { x: 83, y: 58 },
-  ivy: { x: 17, y: 84 },
-  lounge: { x: 50, y: 84 },
-  meet: { x: 50, y: 70 },
-  servers: { x: 83, y: 84 },
+  cindy: { x: 16, y: 38 },
+  maggieOffice: { x: 38, y: 36 },
+  kitchen: { x: 86, y: 36 },
+  whiteboard: { x: 62, y: 42 },
+  amy: { x: 14, y: 68 },
+  lily: { x: 36, y: 72 },
+  ken: { x: 58, y: 70 },
+  ivy: { x: 80, y: 66 },
+  lounge: { x: 30, y: 88 },
+  meet: { x: 48, y: 84 },
+  servers: { x: 86, y: 86 },
 };
 
 const PEOPLE = ["cindy", "maggie", "amy", "lily", "ken", "ivy"];
@@ -79,65 +79,37 @@ export function OfficeScene({ tasks, day, walks, bubbles, selected, onSelect, to
         <div className="skyline" />
         <img className="neon" alt="" src={asset("sprites/neon.png")} />
       </div>
-      <div className="rooms" aria-hidden="true">
-        <section className="cell gm carpet-brown">
-          <span className="plate">總經理室</span>
-          <Prop file="desk.png" />
-          <Prop file="chair.png" />
-          <Prop file="lamp.png" />
-        </section>
-        <section className="cell lead carpet-green">
-          <span className="plate">主管室</span>
-          <Prop file="desk.png" />
-          <Prop file="bookcase.png" />
-          <Prop file="plant.png" />
-        </section>
-        <section className="cell kitchen carpet-navy">
-          <span className="plate">茶水間</span>
-          <Prop file="cabinet.png" />
-          <Prop file="coffee.png" />
-          <img className="prop tiny" alt="" src={asset("sprites/cooler.png")} />
-        </section>
-        <section className="cell amy carpet-purple">
-          <span className="plate">Amy</span>
-          <Prop file="rug.png" />
-          <Prop file="desk.png" />
-          <Prop file="monitor.png" />
-          <Prop file="plant-small.png" />
-        </section>
-        <section className="cell lily carpet-teal">
-          <span className="plate">Lily</span>
-          <Prop file="rug.png" />
-          <Prop file="desk.png" />
-          <Prop file="books.png" />
-          <Prop file="lamp.png" />
-        </section>
-        <section className="cell ken carpet-maroon">
-          <span className="plate">Ken</span>
-          <Prop file="rug.png" />
-          <Prop file="desk.png" />
-          <Prop file="monitor.png" />
-          <Prop file="side-table.png" />
-        </section>
-        <section className="cell ivy carpet-amber">
-          <span className="plate">Ivy</span>
-          <Prop file="rug.png" />
-          <Prop file="desk.png" />
-          <Prop file="lounge-chair.png" />
-          <Prop file="plant.png" />
-        </section>
-        <section className="cell lounge carpet-olive">
-          <span className="plate">休息區</span>
-          <Prop file="sofa.png" />
-          <Prop file="coffee-table.png" />
-          <img className="prop board" alt="" src={asset("sprites/board.png")} />
-        </section>
-        <section className="cell servers carpet-ink">
-          <span className="plate">機房</span>
-          <img className="prop" alt="" src={asset("sprites/rack.png")} />
-          <img className="prop" alt="" src={asset("sprites/rack.png")} />
-          <Prop file="plant-small.png" />
-        </section>
+      <div className="floor" aria-hidden="true">
+        <i className="zone zone-gm" />
+        <i className="zone zone-lead" />
+        <i className="zone zone-amy" />
+        <i className="zone zone-lily" />
+        <i className="zone zone-ken" />
+        <i className="zone zone-ivy" />
+        <i className="zone zone-lounge" />
+        <span className="plate plate-gm">總經理座位</span>
+        <span className="plate plate-lead">主管座位</span>
+        <Prop file="desk.png" className="big at-gm" />
+        <Prop file="chair.png" className="at-gm-chair" />
+        <Prop file="lamp.png" className="at-gm-lamp" />
+        <Prop file="desk.png" className="big at-lead" />
+        <Prop file="bookcase.png" className="at-lead-books" />
+        <Prop file="desk.png" className="at-amy" />
+        <Prop file="monitor.png" className="at-amy-screen" />
+        <Prop file="desk.png" className="at-lily" />
+        <Prop file="books.png" className="at-lily-books" />
+        <Prop file="desk.png" className="at-ken" />
+        <Prop file="monitor.png" className="at-ken-screen" />
+        <Prop file="desk.png" className="at-ivy" />
+        <Prop file="lounge-chair.png" className="at-ivy-chair" />
+        <Prop file="sofa.png" className="at-sofa" />
+        <Prop file="coffee-table.png" className="at-table" />
+        <Prop file="plant.png" className="at-plant-a" />
+        <Prop file="plant-small.png" className="at-plant-b" />
+        <Prop file="coffee.png" className="at-coffee" />
+        <img className="prop at-cooler" alt="" src={asset("sprites/cooler.png")} />
+        <img className="prop board at-board" alt="" src={asset("sprites/board.png")} />
+        <img className="prop at-rack" alt="" src={asset("sprites/rack.png")} />
       </div>
       {placed.map((person) => {
         const base = SPOTS[person.spot] ?? SPOTS.lounge;

diff --git a/frontend/src/cindy/cindy.css b/frontend/src/cindy/cindy.css
@@ -121,38 +121,34 @@ button:focus-visible, input:focus-visible, select:focus-visible { outline: 3px s
     linear-gradient(#0b1830, #0b1830) 88% 100% / 8% 85% no-repeat;
 }
 .neon { position: absolute; right: 8px; top: 6px; width: 72px; height: auto; image-rendering: pixelated; }
-.rooms { position: absolute; left: 8px; right: 8px; top: 54px; bottom: 8px; }
-.cell {
+.floor {
   position: absolute;
-  width: 31%;
-  height: 30%;
-  border: 3px solid #1a1424;
-  border-radius: 8px;
+  left: 8px;
+  right: 8px;
+  top: 54px;
+  bottom: 8px;
+  border-radius: 14px;
+  border: 3px solid #3a2616;
+  background:
+    repeating-linear-gradient(90deg, rgba(90, 48, 20, 0.18) 0 14px, rgba(0, 0, 0, 0.05) 14px 16px),
+    linear-gradient(#c4894a, #a56b32);
   overflow: hidden;
 }
-.cell.gm { left: 0; top: 0; }
-.cell.lead { left: 34.5%; top: 0; }
-.cell.kitchen { right: 0; top: 0; }
-.cell.amy { left: 0; top: 34%; }
-.cell.lily { left: 34.5%; top: 34%; }
-.cell.ken { right: 0; top: 34%; }
-.cell.ivy { left: 0; top: 68%; }
-.cell.lounge { left: 34.5%; top: 68%; }
-.cell.servers { right: 0; top: 68%; }
-.carpet-brown { background: #5a3b24; }
-.carpet-green { background: #1f4a38; }
-.carpet-navy { background: #24324a; }
-.carpet-purple { background: #4a2d66; }
-.carpet-teal { background: #1c4a4e; }
-.carpet-maroon { background: #5a2436; }
-.carpet-amber { background: #5a3d22; }
-.carpet-olive { background: #3d4630; }
-.carpet-ink { background: #1c2438; }
+.zone {
+  position: absolute;
+  border-radius: 18px;
+  pointer-events: none;
+}
+.zone-gm { left: 2%; top: 6%; width: 26%; height: 36%; background: rgba(90, 52, 28, 0.55); }
+.zone-lead { left: 30%; top: 8%; width: 22%; height: 32%; background: rgba(36, 90, 62, 0.45); }
+.zone-amy { left: 3%; top: 50%; width: 18%; height: 24%; background: rgba(90, 40, 120, 0.45); }
+.zone-lily { left: 24%; top: 52%; width: 18%; height: 24%; background: rgba(20, 90, 96, 0.4); }
+.zone-ken { left: 46%; top: 50%; width: 18%; height: 24%; background: rgba(110, 36, 58, 0.4); }
+.zone-ivy { left: 68%; top: 46%; width: 18%; height: 24%; background: rgba(120, 78, 28, 0.4); }
+.zone-lounge { left: 16%; top: 76%; width: 36%; height: 20%; background: rgba(70, 82, 48, 0.35); }
 .plate {
   position: absolute;
   z-index: 2;
-  left: 4px;
-  top: 4px;
   background: #14101c;
   color: #f4efe4;
   font-size: 11px;
@@ -160,20 +156,39 @@ button:focus-visible, input:focus-visible, select:focus-visible { outline: 3px s
   padding: 1px 6px;
   border-radius: 4px;
 }
+.plate-gm { left: 4%; top: 8%; }
+.plate-lead { left: 32%; top: 10%; }
 .prop {
   position: absolute;
-  bottom: 4px;
-  height: 42px;
+  height: 40px;
   width: auto;
   image-rendering: pixelated;
   image-rendering: crisp-edges;
   pointer-events: none;
 }
-.cell .prop:nth-of-type(1) { left: 8px; }
-.cell .prop:nth-of-type(2) { left: 42%; }
-.cell .prop:nth-of-type(3) { right: 6px; left: auto; }
-.prop.tiny { height: 28px; }
-.prop.board { height: 28px; left: 8px; bottom: auto; top: 22px; }
+.prop.big { height: 58px; }
+.prop.board { height: 30px; }
+.at-gm { left: 6%; top: 16%; }
+.at-gm-chair { left: 16%; top: 22%; }
+.at-gm-lamp { left: 22%; top: 8%; height: 36px; }
+.at-lead { left: 34%; top: 16%; }
+.at-lead-books { left: 46%; top: 10%; height: 48px; }
+.at-amy { left: 6%; top: 54%; }
+.at-amy-screen { left: 12%; top: 50%; height: 32px; }
+.at-lily { left: 28%; top: 58%; }
+.at-lily-books { left: 36%; top: 54%; height: 28px; }
+.at-ken { left: 50%; top: 56%; }
+.at-ken-screen { left: 56%; top: 52%; height: 32px; }
+.at-ivy { left: 72%; top: 52%; }
+.at-ivy-chair { left: 80%; top: 48%; height: 36px; }
+.at-sofa { left: 18%; top: 78%; height: 44px; }
+.at-table { left: 32%; top: 82%; height: 28px; }
+.at-plant-a { left: 64%; top: 18%; }
+.at-plant-b { left: 2%; top: 78%; height: 28px; }
+.at-coffee { right: 8%; top: 14%; left: auto; }
+.at-cooler { right: 3%; top: 18%; left: auto; height: 32px; }
+.at-board { left: 60%; top: 30%; }
+.at-rack { right: 3%; bottom: 8%; left: auto; top: auto; height: 36px; }
 .actor {
   position: absolute;
   width: 54px;

diff --git a/frontend/src/cindy/CindyOffice.tsx b/frontend/src/cindy/CindyOffice.tsx
@@ -159,7 +159,7 @@ export function CindyOffice() {
       await backend.updateTask(task.task_id, { status });
       if (status === "done") {
         const name = findAgent(task.agent_slug).display_name;
-        await backend.addEvent({ day: task.day, kind: "report", text: `${name} 到主管室向 Maggie 回報「${task.title}」` });
+        await backend.addEvent({ day: task.day, kind: "report", text: `${name} 走到主管座位向 Maggie 回報「${task.title}」` });
         const home = task.agent_slug === "maggie" ? "maggieOffice" : task.agent_slug;
         play([{ slug: task.agent_slug, spot: home, bubble: "+1" }], 700);
         window.setTimeout(() => {
@@ -168,7 +168,7 @@ export function CindyOffice() {
         window.setTimeout(() => {
           if (!backend) return;
           backend
-            .addEvent({ day: task.day, kind: "gm", text: `Maggie 到總經理室回報「${task.title}」` })
+            .addEvent({ day: task.day, kind: "gm", text: `Maggie 走到總經理座位回報「${task.title}」` })
             .then(() => refresh(backend))
             .catch(() => undefined);
           play(

diff --git a/app/static/office/index.html b/app/static/office/index.html
@@ -13,9 +13,9 @@
       html, body, #cindy-root { margin: 0; min-height: 100%; }
       body { background: #c8ecb0; }
     </style>
-    <script type="module" crossorigin src="./assets/main-rJRhl_w9.js"></script>
+    <script type="module" crossorigin src="./assets/main-CJSS3roR.js"></script>
     <link rel="modulepreload" crossorigin href="./assets/client-D6Ikx3I_.js">
-    <link rel="stylesheet" crossorigin href="./assets/main-DZbCoI1S.css">
+    <link rel="stylesheet" crossorigin href="./assets/main-DugkR9wd.css">
   </head>
   <body>
     <div id="cindy-root"></div>

diff --git a/README.md b/README.md
@@ -9,7 +9,7 @@
 
 家具圖來自 [Kenney Furniture Kit](https://kenney.nl/assets/furniture-kit)（CC0），縮小成像素比例後放進房間。角色、辦公室貓、霓虹燈、白板和機櫃是這個專案自己畫的像素圖。
 
-深色等距辦公室：Cindy 在玻璃總經理室，Maggie 是主管。任務預設交給 Maggie 分派；同事完成後會走到主管室，再由 Maggie 送到「給總經理的回報」。人物走動在沒接上模型時標成模擬。狀態（待命 / 進行中 / 完成）、每日紀錄和 25:00 番茄鐘都還在。手機上場景會縮小，側欄變成底部頁籤。原本的像素辦公室在 `pixel.html`。
+深色開放式辦公室：Cindy 的總經理座位和 Maggie 的主管座位在同一間，用地毯和家具分區。任務預設交給 Maggie 分派；同事完成後會走到主管座位，再由 Maggie 送到「給總經理的回報」。人物走動在沒接上模型時標成模擬。狀態（待命 / 進行中 / 完成）、每日紀錄和 25:00 番茄鐘都還在。手機上場景會縮小，側欄變成底部頁籤。原本的像素辦公室在 `pixel.html`。
 
 ![桌面版](docs/cindy-office-desktop.png)
 

diff --git a/README_zh-TW.md b/README_zh-TW.md
@@ -9,7 +9,7 @@
 
 家具圖來自 [Kenney Furniture Kit](https://kenney.nl/assets/furniture-kit)（CC0），縮小成像素比例後放進房間。角色、辦公室貓、霓虹燈、白板和機櫃是這個專案自己畫的像素圖。
 
-深色等距辦公室：Cindy 在玻璃總經理室，Maggie 是主管。任務預設交給 Maggie 分派；同事完成後會走到主管室，再由 Maggie 送到「給總經理的回報」。人物走動在沒接上模型時標成模擬。狀態（待命 / 進行中 / 完成）、每日紀錄和 25:00 番茄鐘都還在。手機上場景會縮小，側欄變成底部頁籤。原本的像素辦公室在 `pixel.html`。
+深色開放式辦公室：Cindy 的總經理座位和 Maggie 的主管座位在同一間，用地毯和家具分區。任務預設交給 Maggie 分派；同事完成後會走到主管座位，再由 Maggie 送到「給總經理的回報」。人物走動在沒接上模型時標成模擬。狀態（待命 / 進行中 / 完成）、每日紀錄和 25:00 番茄鐘都還在。手機上場景會縮小，側欄變成底部頁籤。原本的像素辦公室在 `pixel.html`。
 
 ![桌面版](docs/cindy-office-desktop.png)
 
